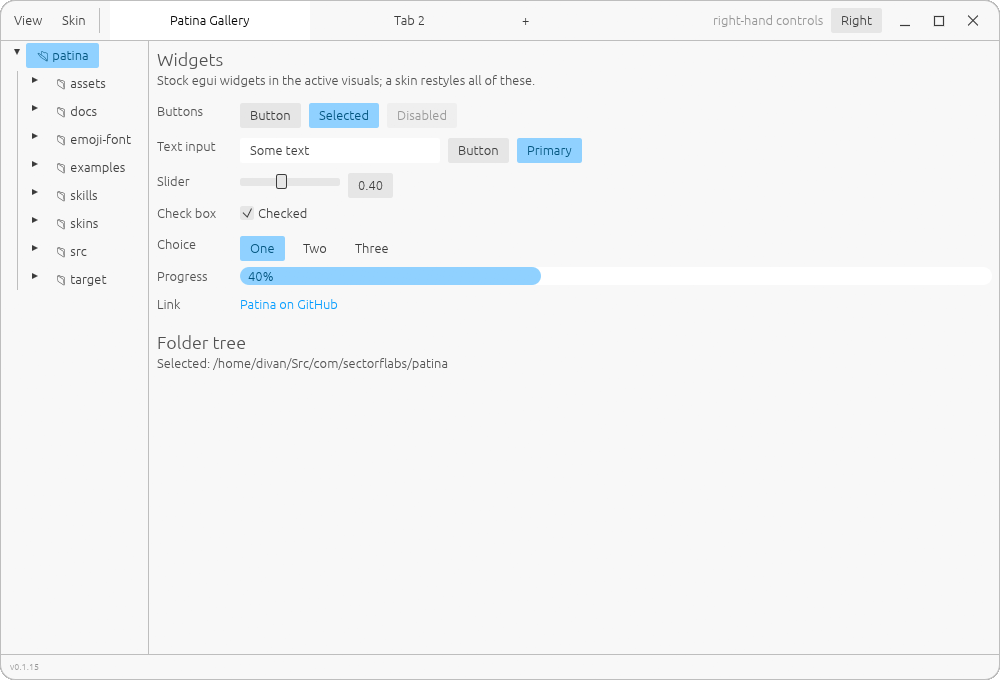
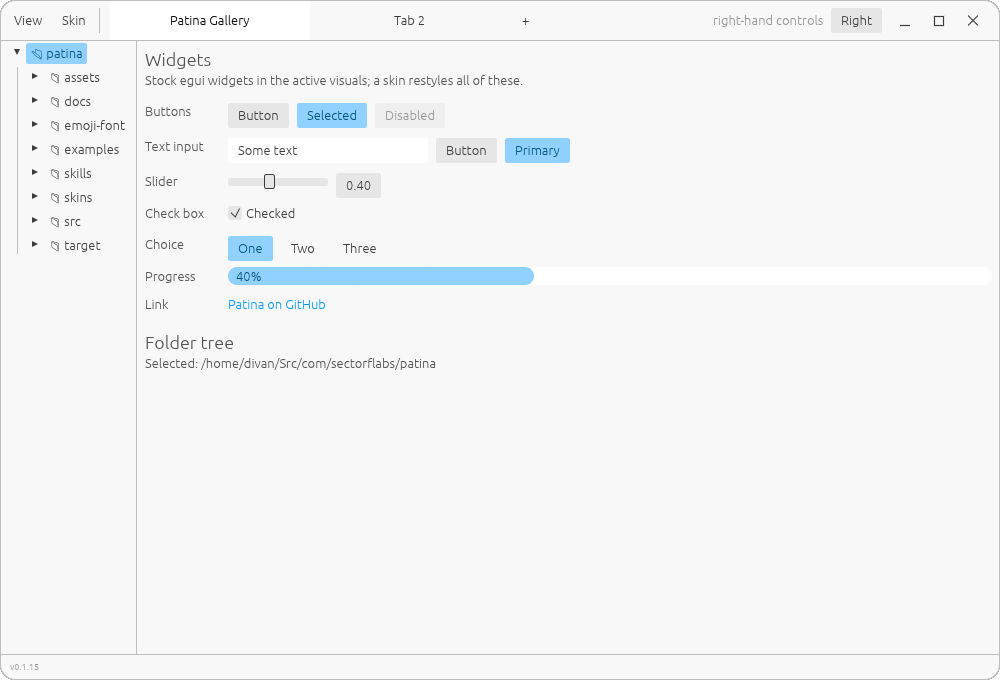
The folder tree's rows are a list's, 24 px apart, whatever the buttons' size
Its rows are selectable labels, which take the button padding, so they grew with
the default buttons (ADR-0035). The tree sets its own spacing; tree::ROW is
24 px, as Files' list rows are. Screenshots regenerated.

diff --git a/src/tree.rs b/src/tree.rs
@@ -69,6 +69,10 @@ pub struct FolderTree {
 
 /// Folders listed at once while a filter looks through the whole tree.
 const SCAN_AT_ONCE: usize = 8;
+
+/// How far apart a tree's rows are, in px: a list's rows, as Files' are, not a row
+/// of buttons, which are taller by default (ADR-0035).
+pub const ROW: f32 = 24.0;
 /// Folders a filter doesn't look inside unless they're already listed: build
 /// output and installed packages, which would bury what's wanted.
 const SCAN_SKIPS: [&str; 2] = ["target", "node_modules"];
@@ -221,6 +225,7 @@ impl FolderTree {
     pub fn show(&mut self, ui: &mut egui::Ui, current: &Path) -> Option<PathBuf> {
         // Hovering a row must not resize it (see `skin::steady_controls`).
         ui.scope(|ui| {
+            row_spacing(ui);
             crate::skin::steady_controls(ui);
             self.show_rows(ui, current)
         })
@@ -517,8 +522,32 @@ fn arrange(dir: &Path, entries: Vec<Entry>, files: bool) -> Vec<Item> {
     out
 }
 
+/// Makes the rows of this `ui` [`ROW`] apart, whatever the padding of buttons is.
+fn row_spacing(ui: &mut egui::Ui) {
+    let text = ui.text_style_height(&egui::TextStyle::Body);
+    let gap = ui.spacing().item_spacing.y;
+    ui.spacing_mut().button_padding = egui::vec2(4.0, ((ROW - gap - text) / 2.0).max(0.0));
+}
+
 #[cfg(test)]
 mod tests {
+    #[test]
+    fn rows_are_a_lists_whatever_buttons_are() {
+        let ctx = egui::Context::default();
+        // Buttons at the new default size: the tree's rows don't follow them.
+        let mut ys = Vec::new();
+        let _ = ctx.run_ui(egui::RawInput::default(), |ui| {
+            ui.spacing_mut().button_padding = egui::vec2(10.0, 5.0);
+            super::row_spacing(ui);
+            for _ in 0..3 {
+                ys.push(ui.selectable_label(false, "row").rect.top());
+            }
+        });
+        let pitch = ys[1] - ys[0];
+        assert!((pitch - super::ROW).abs() <= 1.0, "{pitch}");
+        assert!((ys[2] - ys[1] - pitch).abs() < 0.01);
+    }
+
     /// Whether egui flagged a widget id clash (a red box and a fire) in any
     /// frame while the tree loaded and opened `target`.
     fn clash_while_opening(files: bool) -> Vec<String> {

diff --git a/CHANGELOG.md b/CHANGELOG.md
@@ -41,7 +41,8 @@ is added there in the same commit (ADR-0025).
   `spacing.button_padding` to 10 by 5 px, or to the skin's `[controls] button_padding` (`[4, 1]` is
   egui's old size), so plain buttons, drop-downs, drag values and selectable labels are about 24 px
   high, as dialog buttons and inputs are, with no change in the app. `Skin::spacing()` is the
-  value. Tabs, menus and the title bar, which size themselves, don't change.
+  value. Tabs, menus and the title bar, which size themselves, don't change. The folder tree's rows are
+  `tree::ROW` (24 px) apart whatever the buttons' size, as a list's are.
 - Markdown tables look and lay out like HTML's (ADR-0033): joined cells with borders, text that
   wraps, as wide as the content wants up to the text's width, and images in cells (`![alt](src)`,
   `<img>`, inside a link too) shown. `markdown::embeds::table` takes the document's folder before
@@ -53,7 +54,8 @@ is added there in the same commit (ADR-0025).
   about 24 px high now, not 18, and 12 px wider; a row of them takes more room. To keep a place as
   it was, set `ui.spacing_mut().button_padding = egui::vec2(4.0, 1.0)` in a scope there, or have
   the skin say `[controls] button_padding = [4, 1]`. `dialog::buttons` is still how a row gets
-  the 8 px gap and the least height.
+  the 8 px gap and the least height. **An app's own list or tree made of `selectable_label`s grows with
+  the buttons**: set its own `button_padding` in the list's scope, as `tree::Tree` does.
 
 - **Apps with dialogs, or any row of buttons outside the title bar: call `patina::dialog::buttons(ui)`
   first inside the row's layout, and make the button Enter presses `patina::dialog::primary`.**

diff --git a/docs/adr/0035-buttons-are-a-title-bar-buttons-size-by-default.md b/docs/adr/0035-buttons-are-a-title-bar-buttons-size-by-default.md
@@ -39,5 +39,9 @@ boxes use `interact_size` and `icon_width`, not the padding.
   panels, take more room.
 - Widgets that draw their own size (the tabs, menus, the title bar's buttons, Files' toolbar
   glyph buttons) don't change.
+- **A list or tree is not a row of buttons.** The folder tree is made of `selectable_label`s, which
+  take the button padding, so it grew too, and looked wrong (the user saw it in the gallery). The
+  tree sets its own spacing, so its rows are `tree::ROW` (24 px) apart, as a list's are in Files,
+  whatever the buttons' size. An app's own lists made of selectable labels need the same.
 - An app that wants its old buttons somewhere sets `ui.spacing_mut().button_padding` in a scope;
   `dialog::buttons` is no longer needed for the padding, only for the gap and the least height.
